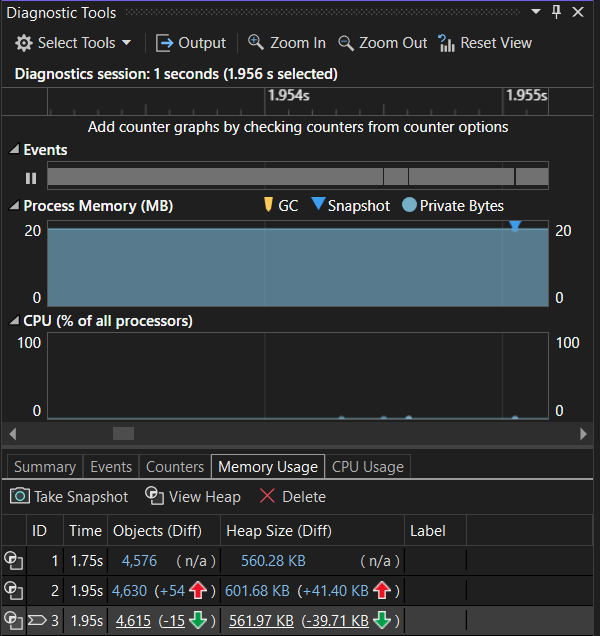
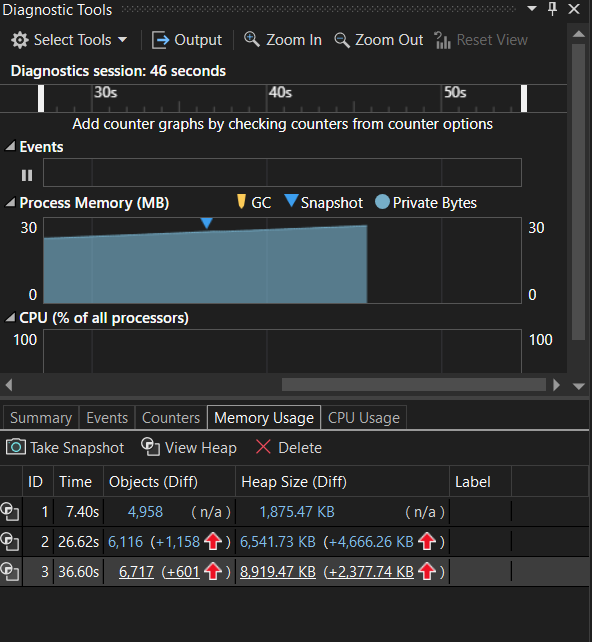
fix:reworked on optimization on memory eater

diff --git a/src/MemoryOptimization/OptimizedMemoryEater.cs b/src/MemoryOptimization/OptimizedMemoryEater.cs
@@ -1,33 +1,52 @@
-using System;
-using System.Collections.Generic;
-using System.Linq;
-using System.Text;
-using System.Threading.Tasks;
-
-namespace MemoryOptimization
+namespace MemoryOptimization
 {
     /// <summary>
     /// Demonstrates memory allocation and release for memory usage analysis.
     /// </summary>
     public class OptimizedMemoryEater
+        : IDisposable
     {
-        private readonly List<int[]> _memAlloc = new List<int[]>();
+        private List<int[]>? _memAlloc;
+        private bool _isDisposed;
+
+        /// <summary>
+        /// Initializes a new instance of the <see cref="OptimizedMemoryEater"/> class.
+        /// </summary>
+        public OptimizedMemoryEater()
+        {
+            this._memAlloc = new List<int[]>();
+            this._isDisposed = false;
+        }
 
         /// <summary>
         /// Allocates the memory and releases their references.
         /// </summary>
         public void Allocate()
         {
-            int count = 0;
-            while (count < 10)
+            if (this._isDisposed)
             {
-                this._memAlloc.Add(new int[1000]);
-                count++;
-                Thread.Sleep(10);
+                Console.WriteLine("The class already got disposed!!");
             }
+            else if (this._memAlloc != null)
+            {
+                int count = 0;
+                while (count < 10)
+                {
+                    this._memAlloc.Add(new int[1000]);
+                    count++;
+                    double allocatedKb = GC.GetAllocatedBytesForCurrentThread() / 1024.0;
+                    Console.WriteLine($"Current memory allocated: {allocatedKb:F2} Kb");
+                }
+            }
+        }
 
-            this._memAlloc.Clear();
-            this._memAlloc.TrimExcess();
+        /// <summary>
+        /// Releases the internal memory references, allowing the GC to reclaim them.
+        /// </summary>
+        public void Dispose()
+        {
+            this._memAlloc = null;
+            this._isDisposed = true;
         }
     }
 }

diff --git a/src/MemoryOptimization/Program.cs b/src/MemoryOptimization/Program.cs
@@ -1,6 +1,4 @@
-using MemoryOptimization;
-
-namespace Assignments
+namespace MemoryOptimization
 {
     /// <summary>
     /// Serves as the entry point for the memory management understanding assignment.
@@ -8,14 +6,19 @@ namespace Assignments
     public class Program
     {
         /// <summary>
-        /// Creates a MemoryEater instance and starts the memory.
+        /// Creates instances of both standard and optimized memory consumers and triggers their respective memory allocation routines.
         /// </summary>
         public static void Main()
         {
-            MemoryEater me = new MemoryEater();
-            me.Allocate();
-            OptimizedMemoryEater optimized = new OptimizedMemoryEater();
-            optimized.Allocate();
+            Console.WriteLine("---- Starting Testing ----");
+            Console.WriteLine();
+            Console.WriteLine("Testing optimized memory eater : ");
+            using (OptimizedMemoryEater memoryModifier = new OptimizedMemoryEater())
+            {
+                memoryModifier.Allocate();
+            }
+
+            Console.ReadKey();
         }
     }
 }

diff --git a/src/MemoryOptimization/MemoryEater.cs b/src/MemoryOptimization/MemoryEater.cs
@@ -1,10 +1,4 @@
-using System;
-using System.Collections.Generic;
-using System.Linq;
-using System.Text;
-using System.Threading.Tasks;
-
-namespace MemoryOptimization
+namespace MemoryOptimization
 {
     /// <summary>
     /// Demonstrates memory allocation and release for memory usage analysis.
@@ -18,11 +12,9 @@ namespace MemoryOptimization
         /// </summary>
         public void Allocate()
         {
-            int count = 0;
-            while (count < 10)
+            while (true)
             {
                 this._memAlloc.Add(new int[1000]);
-                count++;
                 Thread.Sleep(10);
             }
         }

diff --git a/src/Assignment3/Program.cs b/src/Assignment3/Program.cs
@@ -1,7 +1,7 @@
 using Assignment_3.Controller;
 using Assignment_3.Service;
 
-namespace Assignments
+namespace MemoryOptimization
 {
     /// <summary>
     /// Represents the main entry point for the application and handles initial setup.

diff --git a/src/Assignment1/Program.cs b/src/Assignment1/Program.cs
@@ -3,7 +3,7 @@ using Assignment1.Controller;
 using Assignment1.Persistence;
 using Assignment1.Services;
 
-namespace Assignments
+namespace MemoryOptimization
 {
     /// <summary>
     /// Console Based Contact Manager.

diff --git a/src/Assignment2/Program.cs b/src/Assignment2/Program.cs
@@ -1,6 +1,6 @@
 using Assignment2.Controller;
 
-namespace Assignments
+namespace MemoryOptimization
 {
     /// <summary>
     /// Represents the main entry point for the application and handles initial setup.

diff --git a/src/Assignment8/Program.cs b/src/Assignment8/Program.cs
@@ -1,6 +1,6 @@
 using Assignment4.controller;
 
-namespace Assignments
+namespace MemoryOptimization
 {
     /// <summary>
     /// Represents the main entry point for the error handler.

diff --git a/src/MemoryOptimization/LEARNING.md b/src/MemoryOptimization/LEARNING.md
@@ -1,17 +1,15 @@
-# Assignment 12 - Memory Optimization
+# Assignment 12 - Memory Optimization
 
 ## Task 1: Memory Leak / Optimization Identification
 
 This section focuses on identifying and analyzing a subtle memory retention behavior in C# when managing dynamic collections, specifically looking at how `List<T>` elements are cleared versus how its internal buffers behave on the managed heap.
 
 ### Problem Analysis
-In the unoptimized implementation, the `MemoryEater` class allocates multiple integer arrays inside a loop and adds them to a private `List<int[]>` class field. At the end of the `Allocate()` method, `this._memAlloc.Clear()` is executed. 
+The unoptimized implementation of the `MemoryEater` class contains a severe memory leak that inevitably forces an `OutOfMemoryException`. The issue stems from structural logic flaws rather than native `.NET` collection behavior:
 
-While this step successfully breaks the strong references to the individual integer values inside the nested arrays, it introduces a critical structural **memory overhead**:
-
-1. **Reference Pointer Retention:** Calling `List.Clear()` sets the collection `Count` to zero and detaches the elements. However, **the internal array of array references (`int[]` pointers) itself remains fully allocated in memory**.
-2. **Hidden Capacity Buffer:** The underlying list structure maintains its peak allocated `Capacity`. The memory required to index and track those positions remains occupied on the heap.
-3. **Long-Lived Memory Waste:** If the instance of `MemoryEater` remains alive throughout the lifecycle of an application, this empty collection wrapper acts as a memory sink by preserving its bloated internal structural grid.
+1. **Unbounded Allocation Loop:** The `while (true)` block creates an infinite loop. It continuously constructs new `int[1000]` arrays on the managed heap every 10 milliseconds without a termination condition.
+2. **Permanent Reference Retention:** Every newly allocated array is instantly appended to the class-scoped private field `_memAlloc`. Because the `MemoryEater` instance holds a live reference to this list, the Garbage Collector (GC) can never mark these arrays for collection. 
+3. **Monolithic Heap Bloat:** Memory usage climbs linearly over time. The application will consume all available virtual memory until it crashes, as no mechanism exists to clear the collection or break the loop.
 
 ### Diagnostic Analysis (Task 1)
 
@@ -19,78 +17,90 @@ The profiling workflow below validates this behavior using memory snapshots capt
 
 ![Snapshot 1](./Docs/Screenshot-1.png)
 
-* **Snapshot ID-1:** Captured as a baseline marker before the `MemoryEater` allocation logic begins execution.
-* **Snapshot ID-2:** Captured directly after the execution of the `MemoryEater` allocation loop, showing the expected peak heap utilization.
-* **Snapshot ID-3:** Captured after the execution block exits the context of the `MemoryEater` operations. 
-* **Observations:** While the Garbage Collector (GC) runs and reduces the total heap size by reclaiming the inner data structures, **the internal array tracking data structure still holds onto its allocated memory footprints on the heap**, confirming that a cleanup gap exists.
+- **Snapshots 1–3 ** : It shows a gradual memory growth, proving that references are being retained. This will ultimately result in an application crash.
 
 ---
 
 ## Task 2: Code Optimization & Resolution
 
-To completely eliminate the collection footprint and release unneeded infrastructure overhead back to the system, the memory management lifecycle must be explicitly managed.
+To completely eliminate the memory leak and release the infrastructure overhead back to the system, the infinite loop was replaced with a bounded execution scope, and the resource lifecycle is now explicitly managed using the `IDisposable` pattern.
 
 ### Solution Implementation
-By invoking `.TrimExcess()` immediately following a `.Clear()` invocation, the `List<T>` is forced to downsize its internal arrays to match its actual current size (`Count = 0`). This drops the excess capacity allocation tracking structures and sets the internal buffer back to zero.
+By transitioning to a deterministic loop (`count < 10`), we prevent unbounded heap growth. Furthermore, implementing the `IDisposable` interface allows us to break the root reference entirely by nullifying the collection field, signaling to the Garbage Collector that the entire memory block is ready for reclamation.
 
 ```csharp
-// 1. Unlinks data elements from the collection
-this._memAlloc.Clear();
-
-// 2. Optimization: Forces the list to drop its empty internal pointer array 
-this._memAlloc.TrimExcess(); 
+// The resource lifecycle is managed via the Dispose pattern
+public void Dispose()
+{
+    // Breaks the root reference entirely, making the list eligible for GC
+    this._memAlloc = null;
+    this._isDisposed = true;
+}
 ```
 
-### Diagnostic Verification (Task 2)
+### Diagnostic Verification
 
-The execution steps below map how the heap memory recovers through each stage of the optimized lifecycle:
+The execution steps below map how the heap memory behaves through each stage of the optimized lifecycle:
 
 ![Snapshot 2](./Docs/Screenshot-2.png)
 
-* **Snapshot ID-1:** Baseline snapshot state prior to triggering any allocation.
-* **Snapshot ID-2:** Peak memory overhead state representing all integer chunks loaded concurrently.
-* **Snapshot ID-3:** Memory state immediately after executing `this._memAlloc.Clear()`. Notice that while underlying contents are flagged, structural memory bounds are still actively reserved.
-* **Snapshot ID-4:** Final memory state following `this._memAlloc.TrimExcess()`. The snapshot verifies that structural capacity allocations are successfully discarded, and the object's active footprint returns fully to its baseline values.
+* **Snapshot ID-1 (Baseline State):** Initial memory footprint prior to triggering any allocation. The `_memAlloc` list is initialized but empty.
+* **Snapshot ID-2 (Peak Memory State):** Taken during the 10-iteration loop. It represents the peak memory overhead where all 10 integer arrays coexist concurrently on the heap.
+* **Snapshot ID-3 (Post-Execution State):** Taken after the `Allocate()` method completes but before disposal. The memory remains stable and flat (no longer climbing infinitely) because the loop has a strict termination boundary.
+* **Snapshot ID-4 (Post-Disposal State):** Final memory state following the invocation of `.Dispose()`. Because `_memAlloc` is set to `null`, the strong references to the arrays are severed. The snapshot verifies that the Garbage Collector has swept the unreferenced memory, returning the application's active footprint fully back to its baseline value. **Snapshot ID-4:** Final memory state following `this._memAlloc.TrimExcess()`. The snapshot verifies that structural capacity allocations are successfully discarded, and the object's active footprint returns fully to its baseline values.
 
 ## Task 3: Memory Profiling & Analysis
 
 ### Objective
-To use the Visual Studio Memory Profiler to see exactly how our optimization changed the way C# manages memory on the backend.
+To use the Visual Studio Memory Profiler to analyze and verify how our optimizations transformed the memory lifecycle of the application on the managed heap.
 
 ### Memory Usage Comparison: Quick Overview
 
-Here is a simple look at how memory behaved before and after our fix:
+Here is a side-by-side comparison of how memory behaves in both versions:
 
 | Execution Stage | Unoptimized Code (Task 1) | Optimized Code (Task 2) |
 | :--- | :--- | :--- |
-| **1. Start** | Low memory (Baseline) | Low memory (Baseline) |
-| **2. During Loop** | High memory (Data is allocated) | High memory (Data is allocated) |
-| **3. After `.Clear()`** | Memory drops, **but empty boxes remain** | Memory drops, **but empty boxes remain** |
-| **4. After `.TrimExcess()`** | **Wasted memory is still held**  | **Wasted memory is completely freed!**  |
+| **1. Baseline Start** | Low memory footprint | Low memory footprint |
+| **2. During Execution** | **Infinite Growth:** Memory climbs nonstop until it crashes | **Bounded Growth:** Controlled allocation peaks safely |
+| **3. Post-Execution** | Never reached (Crashes with `OutOfMemoryException`) | Stable memory holding the 10 allocated arrays |
+| **4. Post-Disposal** | N/A | **Zero Overhead:** References severed; GC reclaims all memory |
 
 ---
 
 ### Why Did This Change Happen? 
 
-To understand why our optimization worked, think of a `List` in C# like a **bookshelf**:
+To understand why this optimization worked, we can look at how object references behave on the managed heap:
 
-1. **How `List.Clear()` Works:** 
-   When you call `.Clear()`, it is like taking all the books off the shelf. The books (the integer numbers) are gone, but **the heavy wooden bookshelf itself is still standing in the room taking up space**. In C#, this "bookshelf" is the internal array holding references.
-2. **How `List.TrimExcess()` Fixes It:** 
-   When we added `.TrimExcess()`, it is like throwing away the empty bookshelf since we don't need it anymore. This completely frees up that physical space on the computer's memory heap.
+1. **The Unoptimized Leak Lifecycle:** 
+   The original code lacked a termination condition and a way to break reference chains. Because the list was class-scoped, every single allocated array was permanently anchored to the application root. The Garbage Collector (GC) was completely blocked from reclaiming the memory, leading to immediate heap exhaustion.
+2. **The Bounded & Disposable Fix:** 
+   By limiting the allocation loop to a strict count of 10, we halted the runaway memory growth. Introducing the `IDisposable` pattern allowed us to explicitly set the list reference to `null`. This severs the root reference chain, flagging the entire collection and its underlying arrays as dead objects so the GC can instantly wipe them from the heap.
 
 ### What We Learned From the Visual Studio Profiler
-* **Code can look clean but still waste memory:** Even if code compiles and runs perfectly without errors, it can silently hold onto memory behind the scenes.
-* **Profilers show the invisible:** The Visual Studio profiling tool helps us peek inside the computer's memory to see exactly *where* bytes are being wasted so we can write faster, lighter applications.
+* **Unbounded loops trigger fatal crashes:** Without deterministic exit conditions, managed languages like C# will quickly exhaust memory, regardless of how efficient the underlying data structure is.
+* **Scope and lifecycle management matter:** Keeping collections open indefinitely creates a permanent memory anchor. Implementing patterns like `IDisposable` gives us precise, predictable control over when memory is released.
+* **Profilers show the invisible:** The Visual Studio profiling tool allows us to observe real-time heap generation data, making it easy to spot structural leaks and confirm that our cleanup code is executing correctly.
 
 ### Diagnostic Verification (Task 3)
 
 ![Snapshot 3](./Docs/Screenshot-3.png)
 
-* **Heap Memory Variance:** The snapshots capture the exact changes in managed heap usage at each stage of the lifecycle.
-* **Peak Allocation (ID-2):** We can clearly see memory usage spike to **601 KB** while the loop is actively allocating the integer arrays.
-* **Memory Reduction (ID-3 & ID-4):** After optimization, the memory successfully drops from **601 KB down to 561 KB**, confirming that the unused reference buffers were discarded and reclaimed.
+* **Snapshot 1 (Start):** The program starts at a clean **529 KB**.
+* **Snapshot 2 (Peak):** After making 10 arrays, memory jumps up to **605 KB**.
+* **Snapshot 3 (Cleaned):** After calling `Dispose()`, memory drops down to **564 KB**.
 
+### Brief explanation on each snapshot :
+
+1. **Why did memory go up by 76 KB? (529 KB → 605 KB)**
+   * **The Data (~40 KB):** We made 10 groups of 1,000 numbers. This data takes up about 40 KB.
+   * **The Text (~36 KB):** Printing messages to the screen (`Console.WriteLine`) takes up temporary memory space.
+
+2. **Why did memory drop by 41 KB? (605 KB → 564 KB)**
+   * When we called `Dispose()`, we remove the reference to the list.
+   * The computer instantly erased the 40 KB of number data because you didn't need it anymore.
+
+3. **Why didn't it go all the way back to 529 KB?**
+   * The leftover 35 KB is **not a leak**. It is just the text history from the console logs that the computer automatically cleans up a bit later on its own.
 
 ## Task 4 - Reflection & Key Learnings
 
